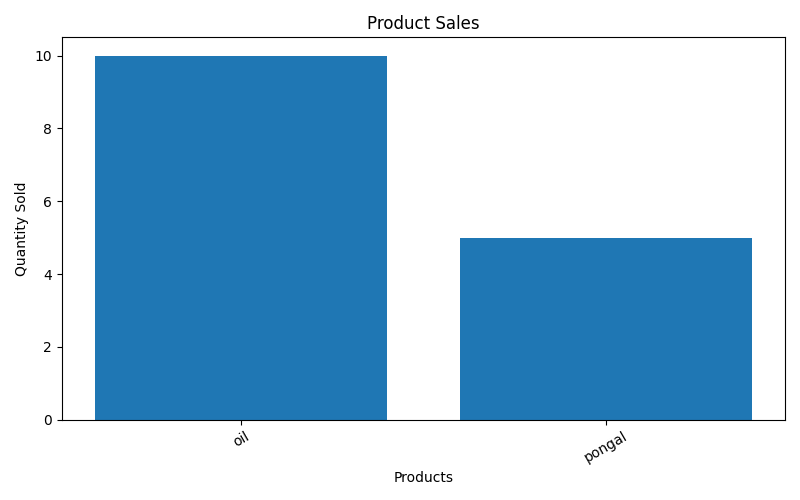
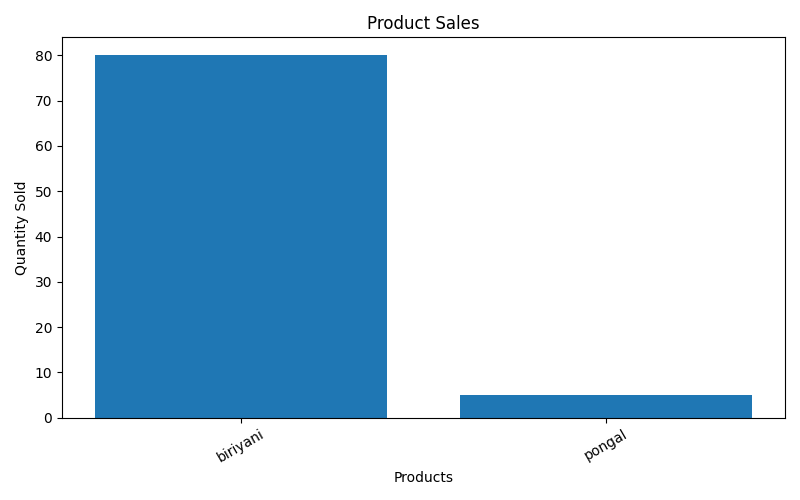
Day 22: Added customer auto fill using mobile lookup

diff --git a/templates/index.html b/templates/index.html
@@ -9,7 +9,7 @@
     <h1>AI Billing System</h1>
     <form method="post" action="/">
         <label>Customer Name:</label><br>
-        <input type="text" name="customer_name" placeholder="Enter Customer Name"><br><br>
+        <input type="text" name="customer_name" placeholder="walk-in-customer"><br><br>
         <label>Mobile Number:</label><br>
         <input type="text" name="mobile" placeholder="Enter Mobile Number"><br><br>
         <div id="products">
@@ -156,6 +156,28 @@ document.getElementById("addProduct").addEventListener("click", function () {
 
     addPriceEvent(newSelect);
 
+
+});
+const mobileInput = document.querySelector('input[name="mobile"]');
+const customerInput = document.querySelector('input[name="customer_name"]');
+
+mobileInput.addEventListener("keyup", function(){
+
+    let mobile = this.value;
+
+    if(mobile.length >= 10){
+
+        fetch("/get_customer/" + mobile)
+        .then(response => response.json())
+        .then(data => {
+
+            if(data.customer_name){
+                customerInput.value = data.customer_name;
+            }
+
+        });
+
+    }
 
 });
 

diff --git a/app.py b/app.py
@@ -26,6 +26,19 @@ class Product(db.Model):
     stock = db.Column(db.Integer, nullable=False)
 
 
[email redacted]("/get_customer/<mobile>")
+def get_customer(mobile):
+
+    bill = Bill.query.filter_by(mobile=mobile).first()
+
+    if bill and bill.customer_name != "Walk-in Customer":
+        return jsonify({
+            "customer_name": bill.customer_name
+        })
+
+    return jsonify({
+        "customer_name": ""
+    })
 
 class Shop(db.Model):
     id = db.Column(db.Integer, primary_key=True)
@@ -39,6 +52,10 @@ def home():
     if request.method == "POST":
 
         customer_name = request.form.get("customer_name")
+
+        if not customer_name.strip():
+          customer_name = "Walk-in Customer"
+
         mobile = request.form.get("mobile")
 
         products = request.form.getlist("product[]")